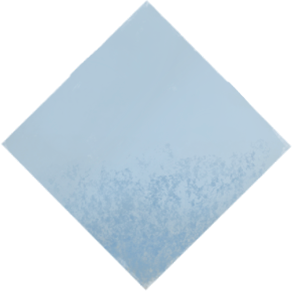
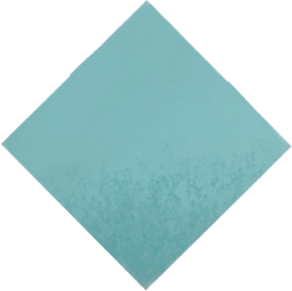
art update and character tag spawn fix

diff --git a/Assets/Script/Character/Character.cs b/Assets/Script/Character/Character.cs
@@ -426,8 +426,9 @@ public class Character : MonoBehaviour, IRound
             {
                 CharacterName = RandomCharacterNameSpawner.SpawnCharacterName(characterArtCode);
             }
-            if (tagList.Count == 0)
+            if (tagList.Count == 0 || hireStage == HireStage.InCity)
             {
+                tagList = new List<Tag>();
                 SpawnTagOnStart(rarerity);
             }
             if (hireStage != HireStage.Hired)
